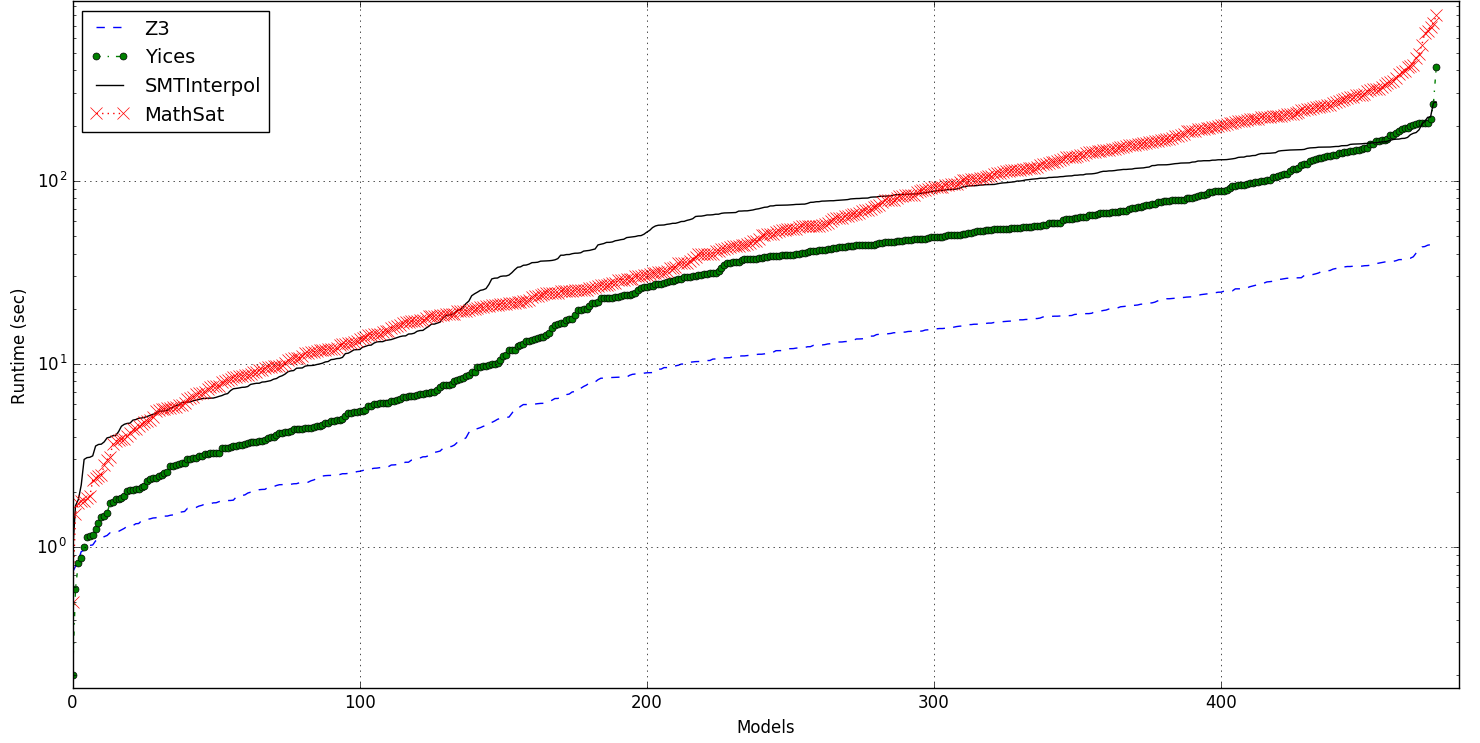
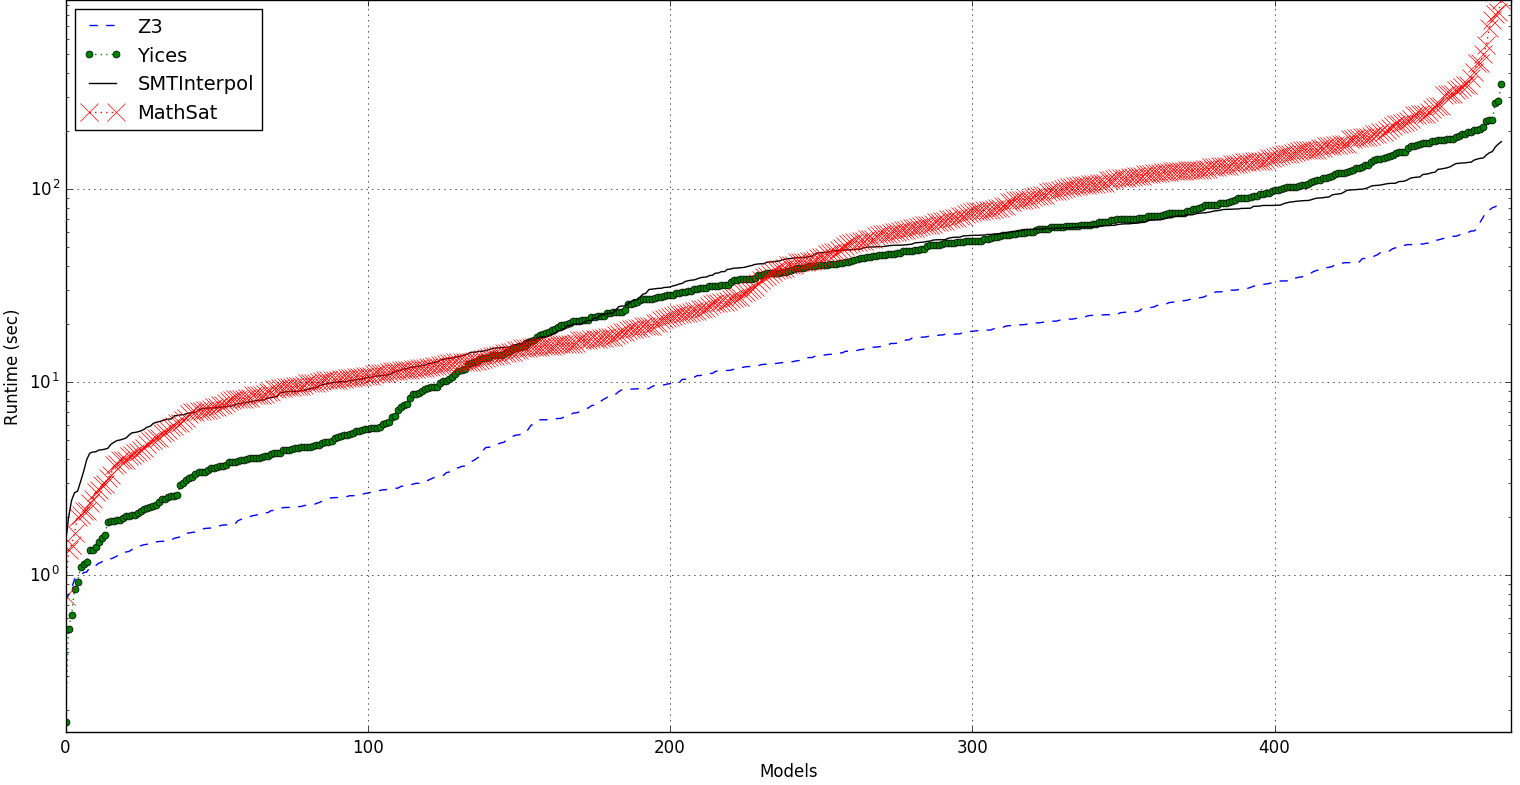
fixed bugs in timing analyses

diff --git a/support/support_TeX/results.tex b/support/support_TeX/results.tex
@@ -89,10 +89,10 @@ Finally, we consider the combined \ucbfalg algorithm, in which we first run the 
     \hline
      solver & min & max & mean & stdev \\[0.5ex]
     \hline
-    Z3   & 0.73\% & 45.69\% & 13.272\% & 10.78\% \\[0.5ex]
-    Yices &   0.20\%  & 419.65\%   & 47.92\% & 51.61\% \\[0.5ex]
-    SMTInterpol& 0.93\% & 268.57\% &  70.86\% & 54.18\%\\[0.5ex]
-    MathSAT & 0.50\% & 798.92\% &  71.01\% & 79.99\%\\[0.5ex]
+    Z3   & 0.73\% & 84.13\% & 17.38\% & 16.92\% \\[0.5ex]
+    Yices &   0.17\%  & 351.47\%   & 52.20\% & 54.50\% \\[0.5ex]
+    SMTInterpol& 1.46\% & 175.75\% &  46.81\% & 37.35\%\\[0.5ex]
+    MathSAT & 0.78\% & 955.52\% &  80.21\% & 112.92\%\\[0.5ex]
     \hline
   \end{tabular}
   \caption{Overhead of \ucalg computations using different solvers}
@@ -105,7 +105,7 @@ Finally, we consider the combined \ucbfalg algorithm, in which we first run the 
     \hline
      runtime (sec) & min & max & mean & stdev \\[0.5ex]
     \hline
-    Yices &   0.847  & 469.953   & 26.584 & 56.773 \\[0.5ex]
+    Yices &   0.678  & 3600.0   & 91.594 & 490.008 \\[0.5ex]
     \hline
   \end{tabular}
   \caption{\ucbfalg runtime with Yices}
@@ -118,7 +118,7 @@ Finally, we consider the combined \ucbfalg algorithm, in which we first run the 
     \hline
      solver & min & max & mean & stdev \\[0.5ex]
     \hline
-    Yices &   18.37\%  & 99.67\%   & 87.43\% & 16.13\% \\[0.5ex]
+    Yices & 122.50\%  & 30092.78\%   & 3195.90\% & 3896.05\% \\[0.5ex]
     \hline
   \end{tabular}
   \caption{Overhead of \ucbfalg algorithm using Yices}
@@ -160,8 +160,7 @@ Finally, we consider the combined \ucbfalg algorithm, in which we first run the 
 
 \begin{figure*}
   \centering
-  \includegraphics[width=\textwidth]{figs/minimality.png}
-  \mike{REPLACE WITH CORRECT FIGURE}
+  \includegraphics[width=\textwidth]{figs/minimality.png} 
   \caption{IVC sizes produced by \ucalg vs. \ucbfalg for Yices}
   \label{fig:minimality-all}
 \end{figure*}
@@ -285,7 +284,7 @@ Table~\ref{tab:variety} shows that, with an effect size of 0.79, H0 can be rejec
 
 \subsection{Discussion}
 
-In the previous section, we presented three algorithms for determining inductive validity cores.  The brute-force algorithm is guaranteed minimal, but is often very slow.  The other two algorithms: the UNSAT-core algorithm \ucalg\ and the combined algorithm \ucbfalg, represent interesting trade-offs.  The \ucalg\ algorithm is much faster, but is not guaranteed to be minimal; the result of this algorithm can be further, and often quite quickly, refined by the combined algorithm.  Thus, we can choose to trade off speed for guaranteed minimality using these two algorithms; the combined algorithm can be viewed as a refinement algorithm that we can terminate either at completion or after a fixed time bound.  
+In the previous section, we presented three algorithms for determining inductive validity cores.  The brute-force algorithm is guaranteed minimal, but is often very slow.  The other two algorithms: the UNSAT-core algorithm \ucalg\ and the combined algorithm \ucbfalg, represent interesting trade-offs.  The \ucalg\ algorithm is much faster, but is not guaranteed to be minimal; the result of this algorithm can be further, and often quite quickly, refined by the combined algorithm.  Thus, we can choose to trade off speed for guaranteed minimality using these two algorithms; the combined algorithm can be viewed as a refinement algorithm that we can terminate either at completion or after a fixed time bound.
 
 
 %One question that arises is: why is the refinement so much quicker than the brute-force approach?  In our preliminary examination, it appears to be because of the actions performed by JKind on the sub-problems.  When the cores produced by \ucalg\ are minimal or close to minimal, it tends to be the case that removing conjuncts from the core leads to short counterexamples.  When performing the brute-force algorithm, removing the irrelevant pieces of the model require repeated proof search.
